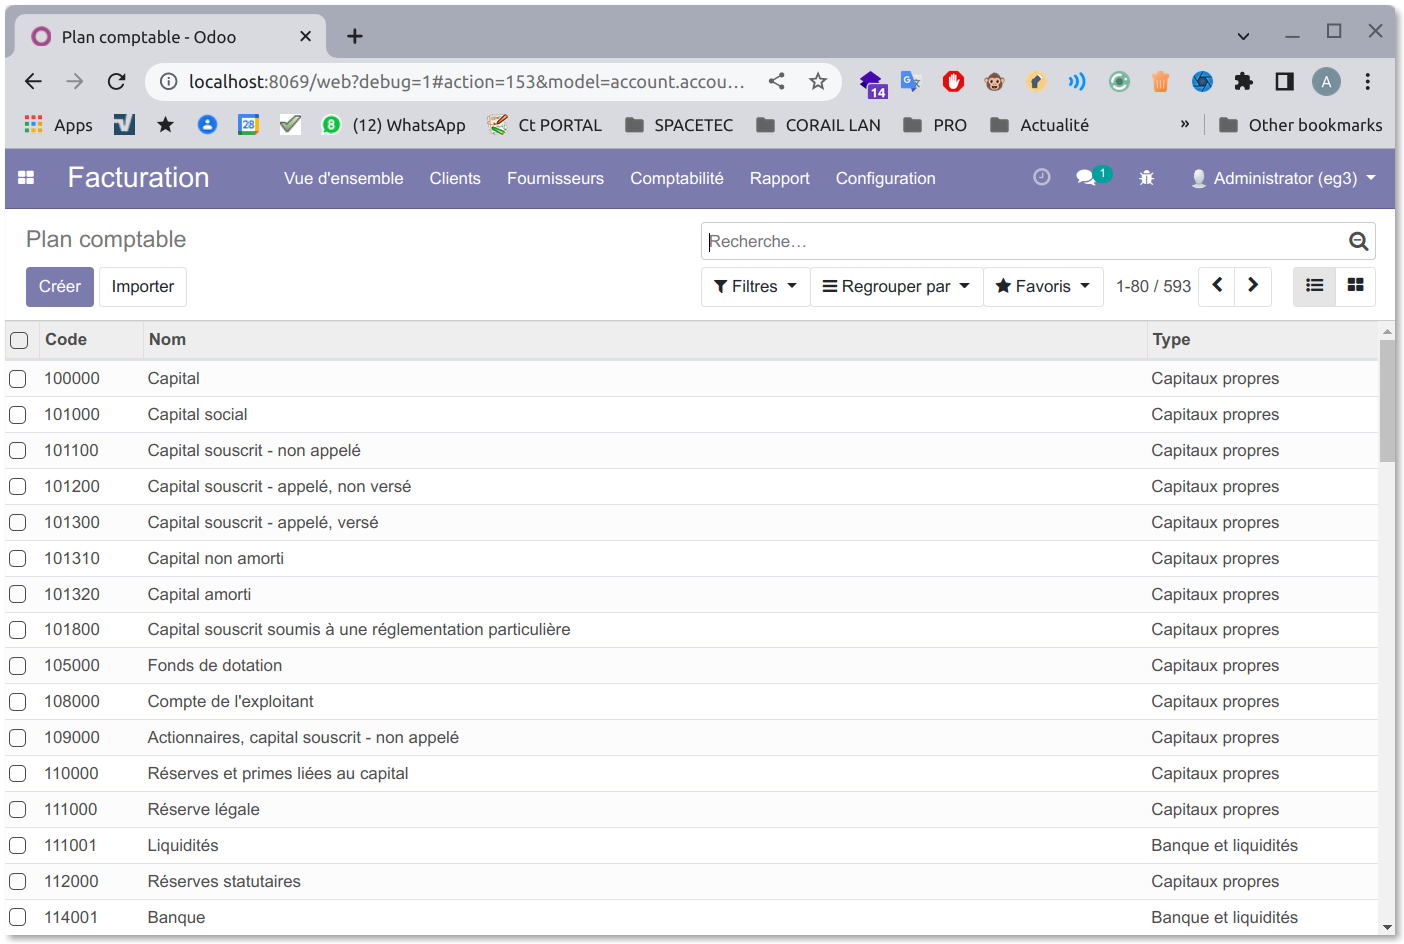
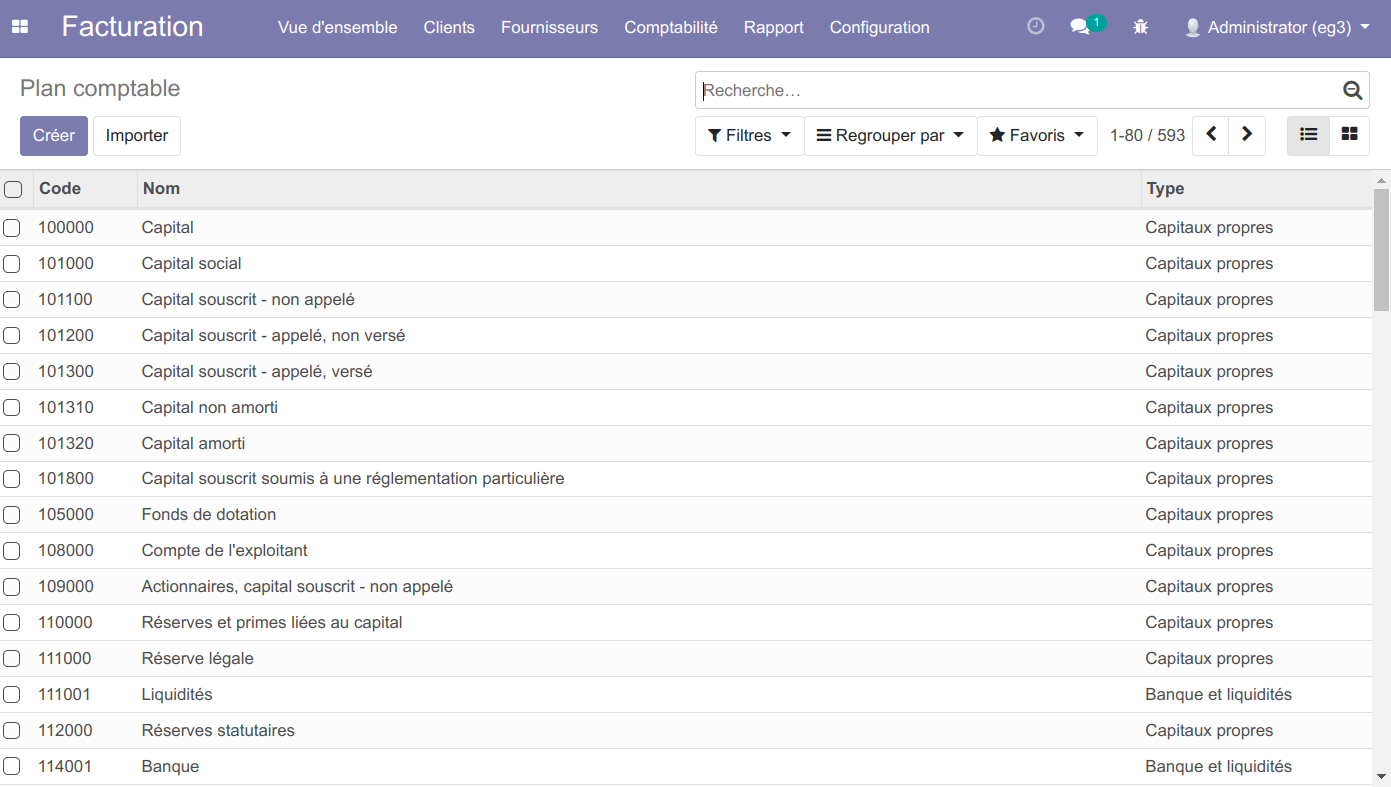
update readme

diff --git a/l10n_tn_accounting/static/description/index.html b/l10n_tn_accounting/static/description/index.html
@@ -369,8 +369,8 @@ ul.auto-toc {
 !!!!!!!!!!!!!!!!!!!!!!!!!!!!!!!!!!!!!!!!!!!!!!!!!!!! -->
 <p><a class="reference external" href="https://odoo-community.org/page/development-status"><img alt="Beta" src="https://img.shields.io/badge/maturity-Beta-yellow.png" /></a> <a class="reference external" href="http://www.gnu.org/licenses/agpl-3.0-standalone.html"><img alt="License: AGPL-3" src="https://img.shields.io/badge/licence-AGPL--3-blue.png" /></a> <a class="reference external" href="https://github.com/Odoo-Eggs/odooeggs-addons/tree/12.0/l10n_tn_accounting"><img alt="Odoo-Eggs/odooeggs-addons" src="https://img.shields.io/badge/github-Odoo-Eggs%2Fodooeggs--addons-lightgray.png?logo=github" /></a></p>
 <p>The aim of this project is a better integration of Odoo with Tunisian legislation and business practices.</p>
-<img alt="https://raw.githubusercontent.com/Odoo-Eggs/odooeggs-addons/12.0/l10n_tn_accounting/static/description/tn_chart.png" src="https://raw.githubusercontent.com/Odoo-Eggs/odooeggs-addons/12.0/l10n_tn_accounting/static/description/tn_chart.png" />
-<img alt="https://raw.githubusercontent.com/Odoo-Eggs/odooeggs-addons/12.0/l10n_tn_accounting/static/description/tn_taxes.png" src="https://raw.githubusercontent.com/Odoo-Eggs/odooeggs-addons/12.0/l10n_tn_accounting/static/description/tn_taxes.png" />
+<img alt="https://raw.githubusercontent.com/Odoo-Eggs/odooeggs-addons/12.0/l10n_tn_accounting/static/description/tn_chart.png" src="https://raw.githubusercontent.com/Odoo-Eggs/odooeggs-addons/12.0/l10n_tn_accounting/static/description/tn_chart.png" style="width: 600px;" />
+<img alt="https://raw.githubusercontent.com/Odoo-Eggs/odooeggs-addons/12.0/l10n_tn_accounting/static/description/tn_taxes.png" src="https://raw.githubusercontent.com/Odoo-Eggs/odooeggs-addons/12.0/l10n_tn_accounting/static/description/tn_taxes.png" style="width: 600px;" />
 <p><strong>Table of contents</strong></p>
 <div class="contents local topic" id="contents">
 <ul class="simple">

diff --git a/l10n_tn_accounting/README.rst b/l10n_tn_accounting/README.rst
@@ -22,8 +22,10 @@ Tunisian Accounting
 The aim of this project is a better integration of Odoo with Tunisian legislation and business practices.
 
 .. image:: https://raw.githubusercontent.com/Odoo-Eggs/odooeggs-addons/12.0/l10n_tn_accounting/static/description/tn_chart.png
+  :width: 600
 
 .. image:: https://raw.githubusercontent.com/Odoo-Eggs/odooeggs-addons/12.0/l10n_tn_accounting/static/description/tn_taxes.png
+  :width: 600
 
 **Table of contents**
 

diff --git a/l10n_tn_accounting/readme/DESCRIPTION.rst b/l10n_tn_accounting/readme/DESCRIPTION.rst
@@ -1,5 +1,7 @@
 The aim of this project is a better integration of Odoo with Tunisian legislation and business practices.
 
 .. image:: static/description/tn_chart.png
+  :width: 600
 
 .. image:: static/description/tn_taxes.png
+  :width: 600
